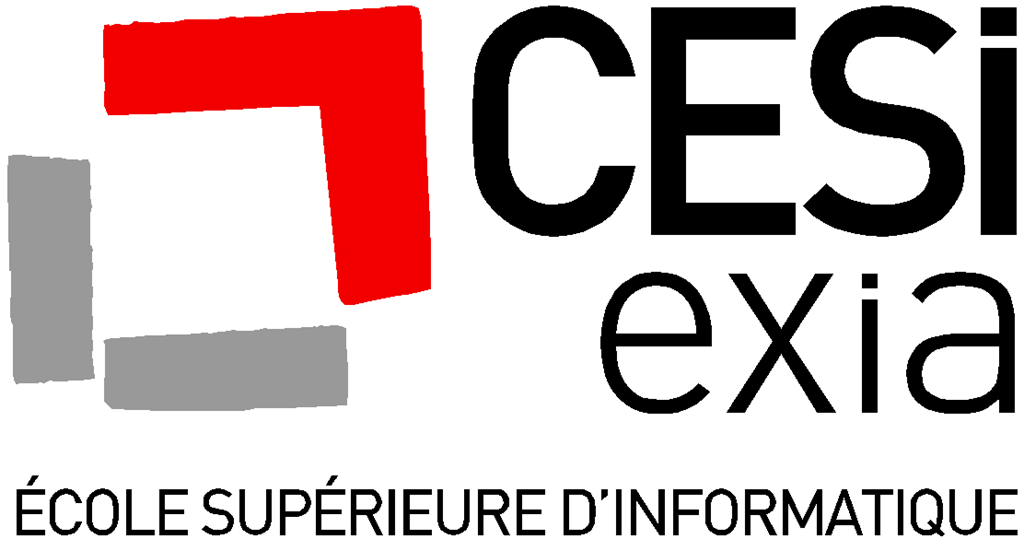
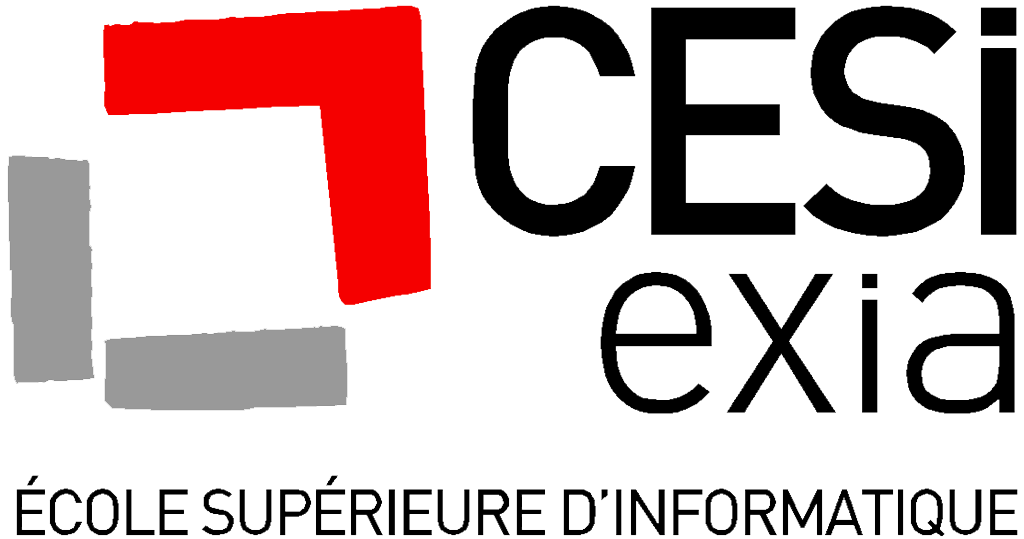
:loudspeaker: Recadrage et retraitement des images des partenaires pour qu'elles soient transparentes

diff --git a/index.html b/index.html
@@ -214,11 +214,13 @@
             <span data-animation="fadeInRight" data-animation-delay="100" class="title-inner">Nos partenaires</span>
           </h1>
           <div class="partners-carousel" data-animation="fadeInUp" data-animation-delay="300">
-            <a href="https://exia.cesi.fr/ecole-informatique-orleans/" target="_blank"><img src="assets/img/partenaire-exia-cesi.jpg" alt="Ecole eXia CESI"/></a>
-            <a href="http://www.gfi.fr/" target="_blank"><img src="assets/img/partenaire-gfi.jpg" alt="GFI Informatique"/></a>
-            <a href="http://www.univ-orleans.fr/polytech/" target="_blank"><img src="assets/img/partenaire-polytech-orleans.jpg" alt="Ecole d'ingénieurs Polytech Orléans"/></a>
-            <a href="http://www.buzznative.com" target="_blank"><img src="assets/img/partenaire-buzznative.jpg" alt="Agence Buzznative"/></a>
-            <a href="http://www.force-interactive.com/" target="_blank"><img src="assets/img/partenaire-force-interactive.jpg" alt=""/></a>
+            <a href="https://exia.cesi.fr/ecole-informatique-orleans/" target="_blank"><img src="assets/img/partenaire-exia-cesi.png" alt="Ecole eXia CESI"/></a>
+            <a href="http://www.gfi.fr/" target="_blank"><img src="assets/img/partenaire-gfi.png" alt="GFI Informatique"/></a>
+            <a href="http://www.univ-orleans.fr/polytech/" target="_blank"><img src="assets/img/partenaire-polytech-orleans.png" alt="Ecole d'ingénieurs Polytech Orléans"/></a>
+            <!--
+            <a href="http://www.buzznative.com" target="_blank"><img src="assets/img/partenaire-buzznative.png" alt="Agence Buzznative"/></a>
+            -->
+            <a href="http://www.force-interactive.com/" target="_blank"><img src="assets/img/partenaire-force-interactive.png" alt=""/></a>
             <div style="clear: both;"></div>
           </div>
           <div class="text-center margin-top">
